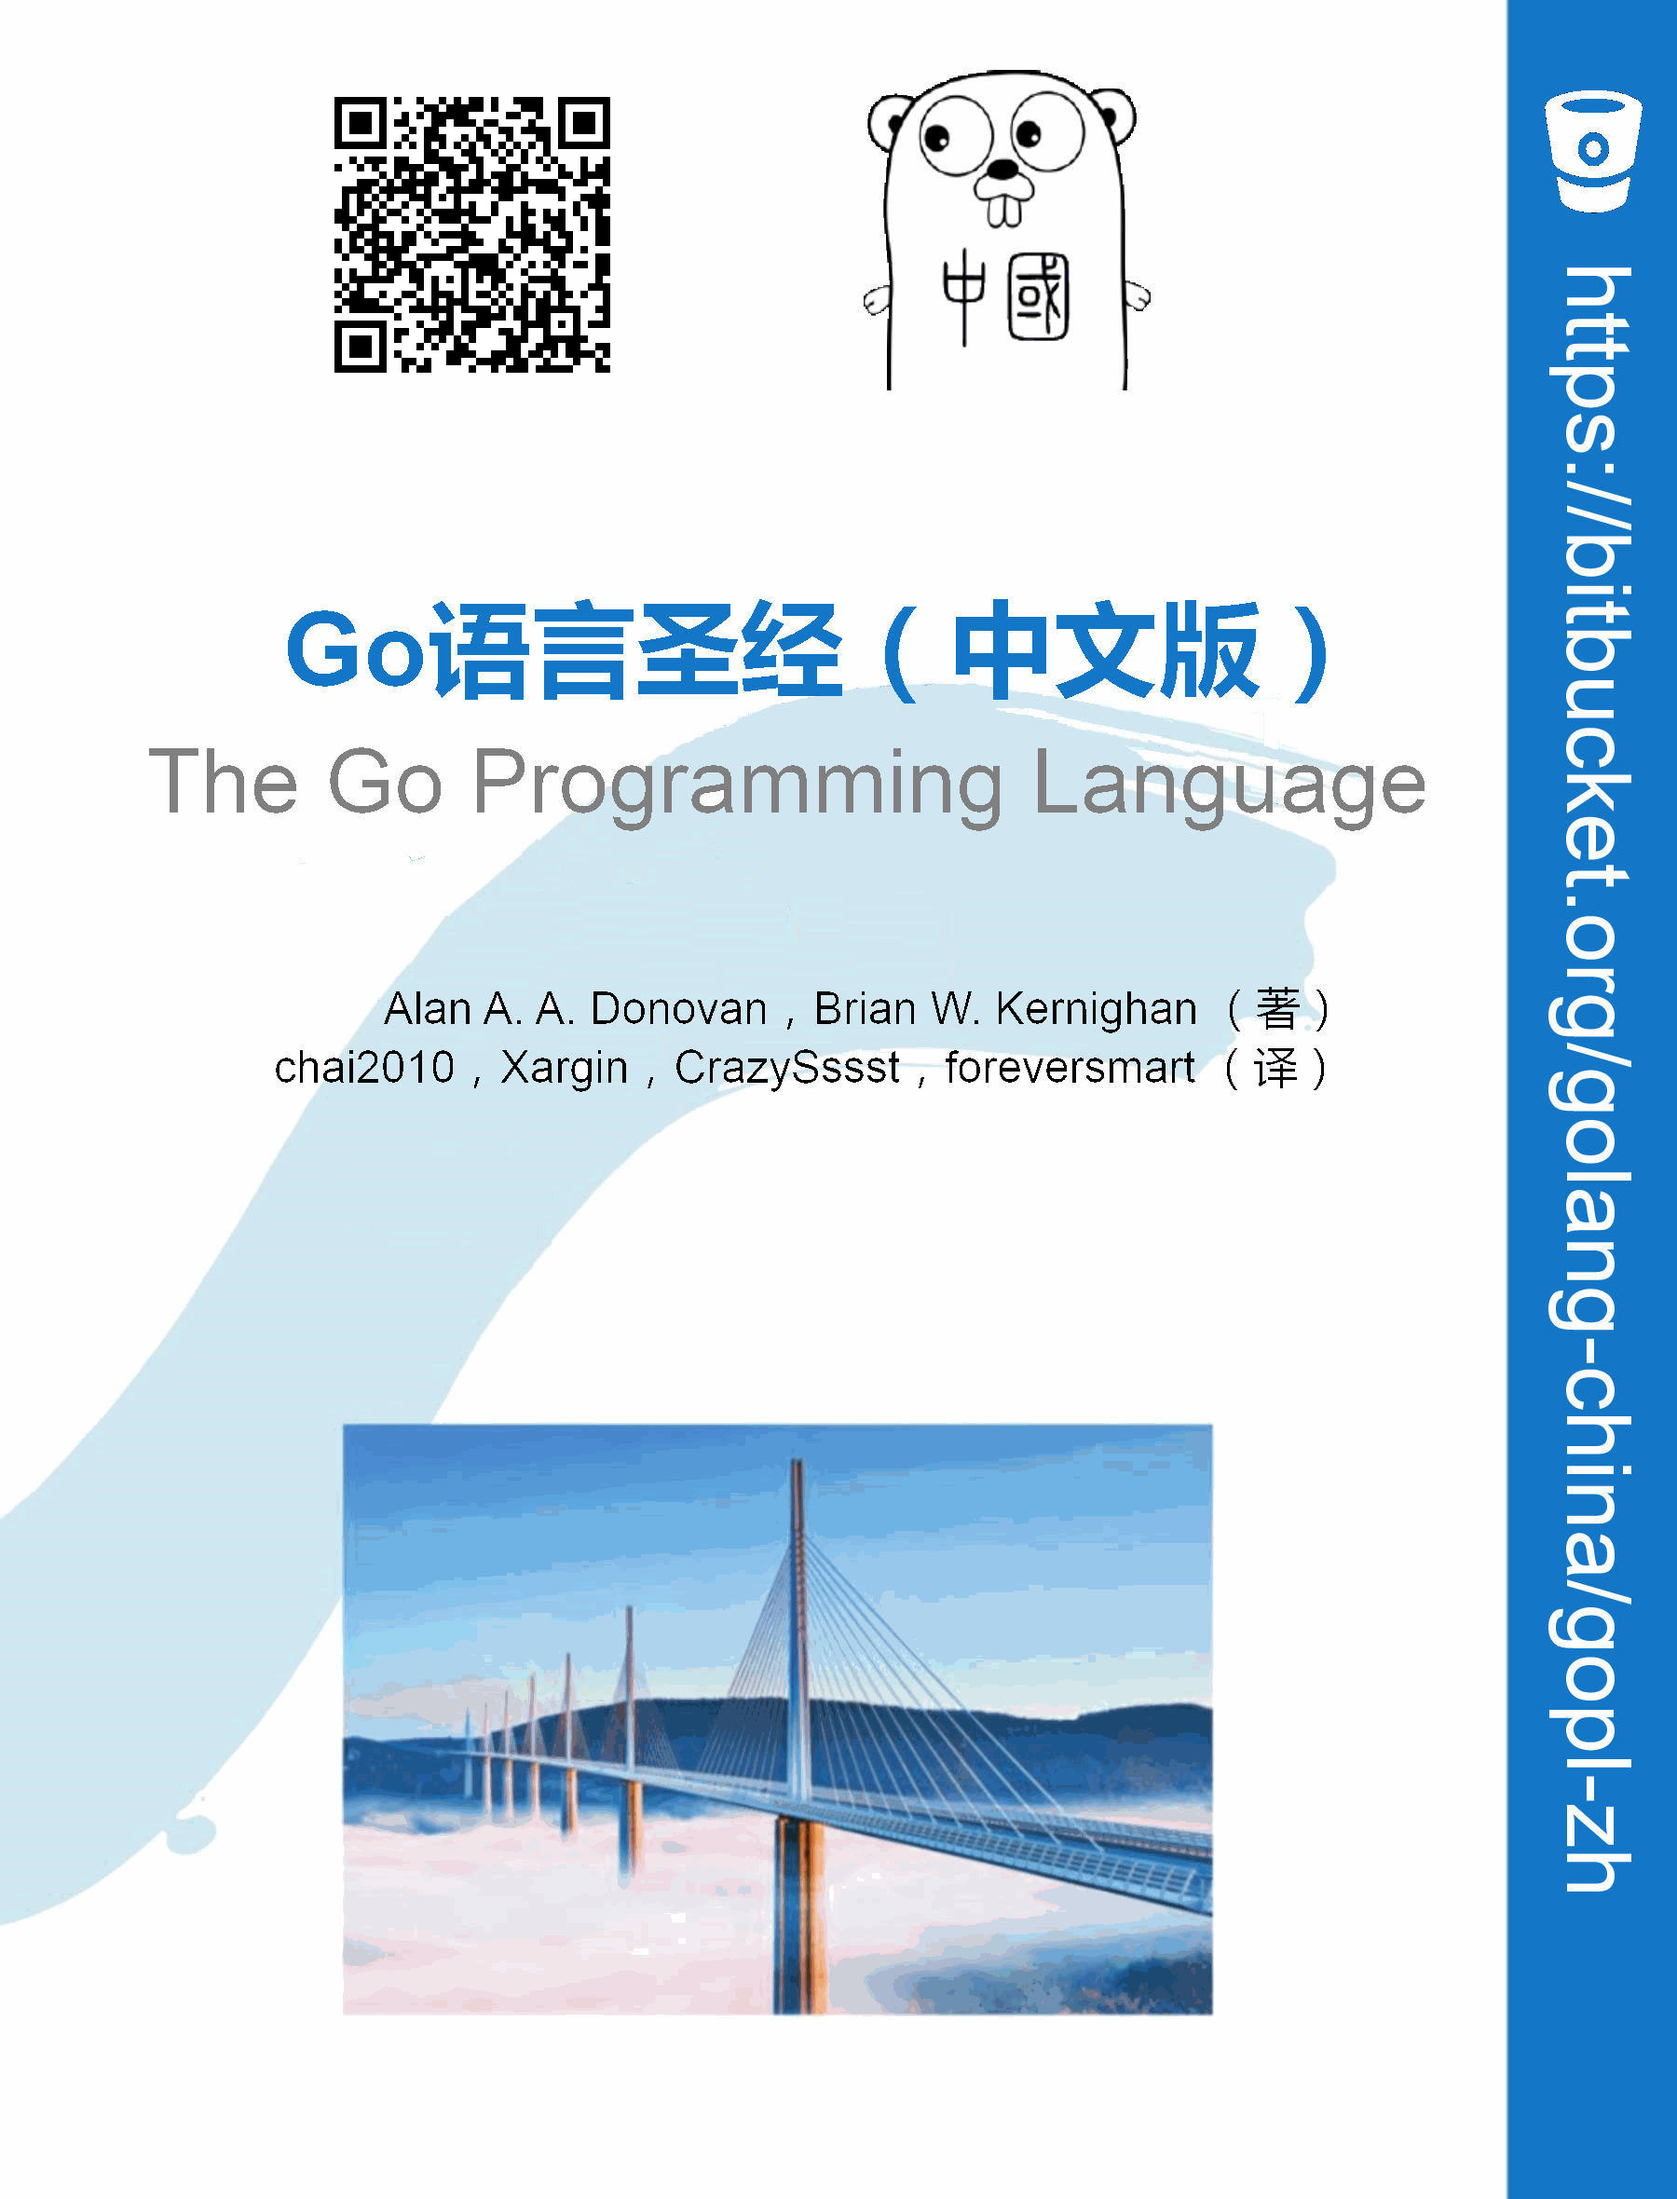
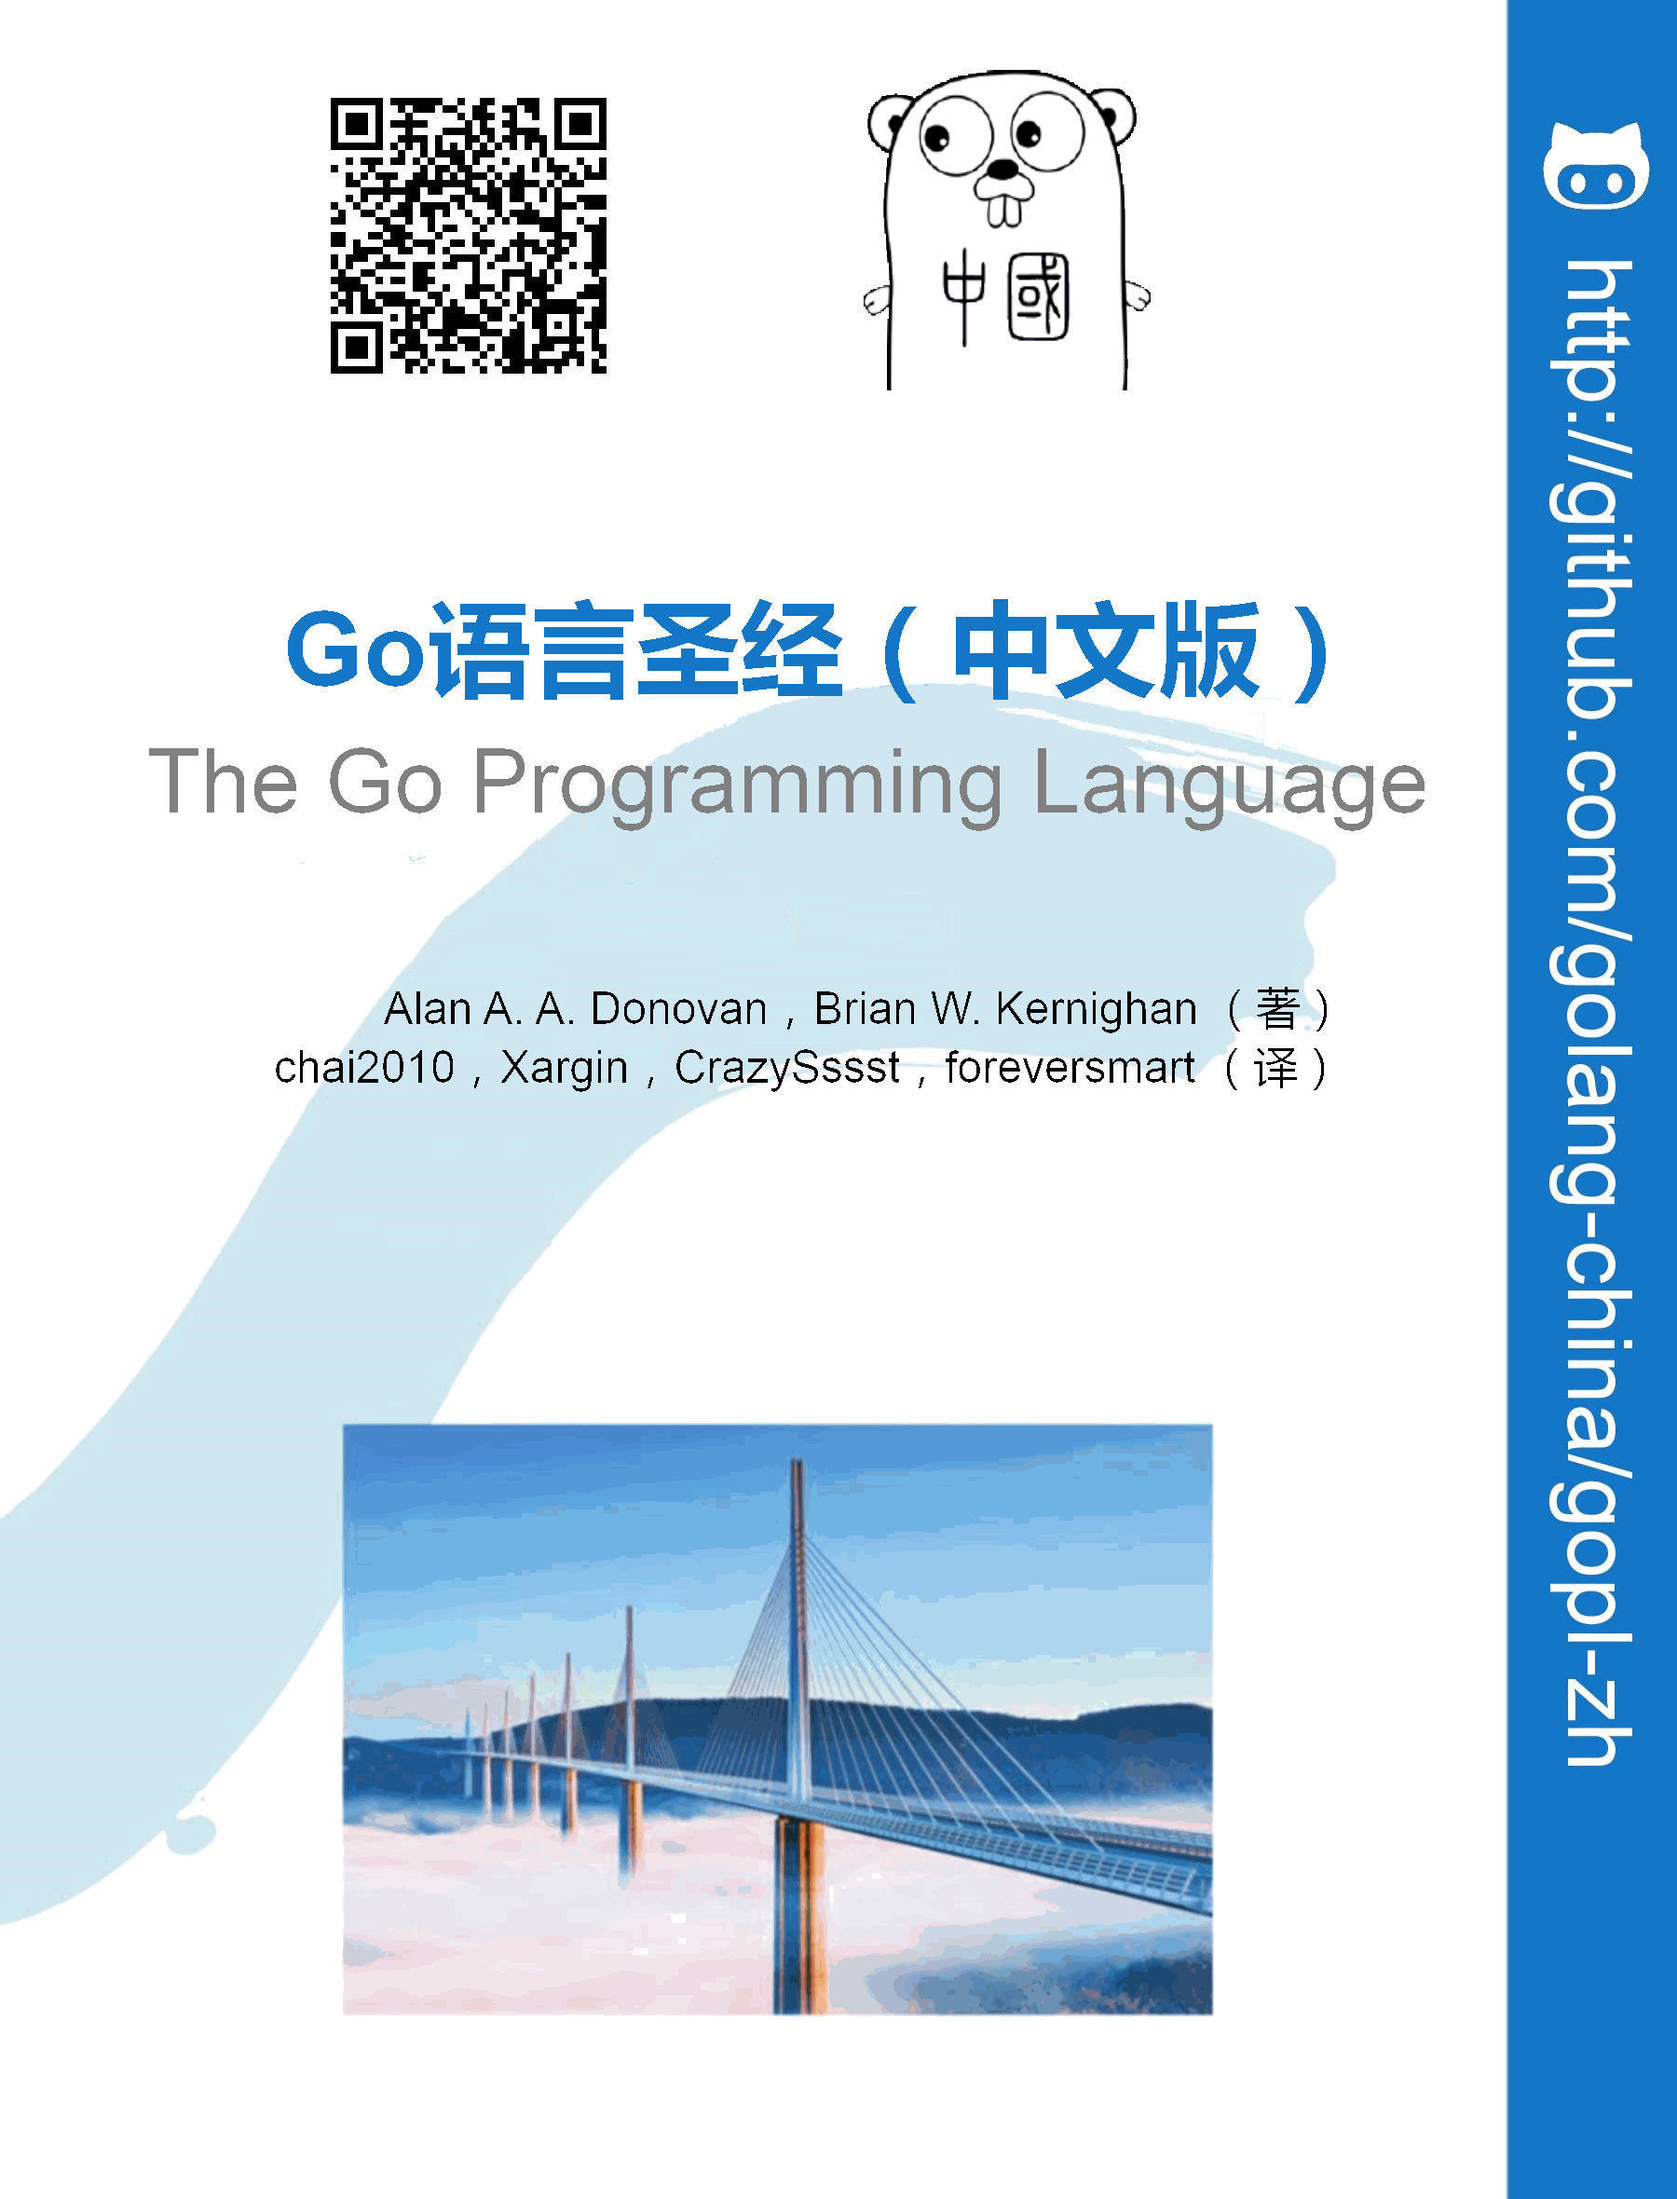
封面链接改回 github 地址

Changed region(s): [[0.9022, 0.0309, 0.9956, 0.8661], [0.1867, 0.0309, 0.3733, 0.1856]]

diff --git a/tools/mkqrcode.go b/tools/mkqrcode.go
@@ -15,7 +15,7 @@ import (
 )
 
 const (
-	gopl_zh_url = "https://bitbucket.org/golang-china/gopl-zh"
+	gopl_zh_url = "https://github.com/golang-china/gopl-zh"
 	output      = "gopl-zh-qrcode.png"
 )
 
